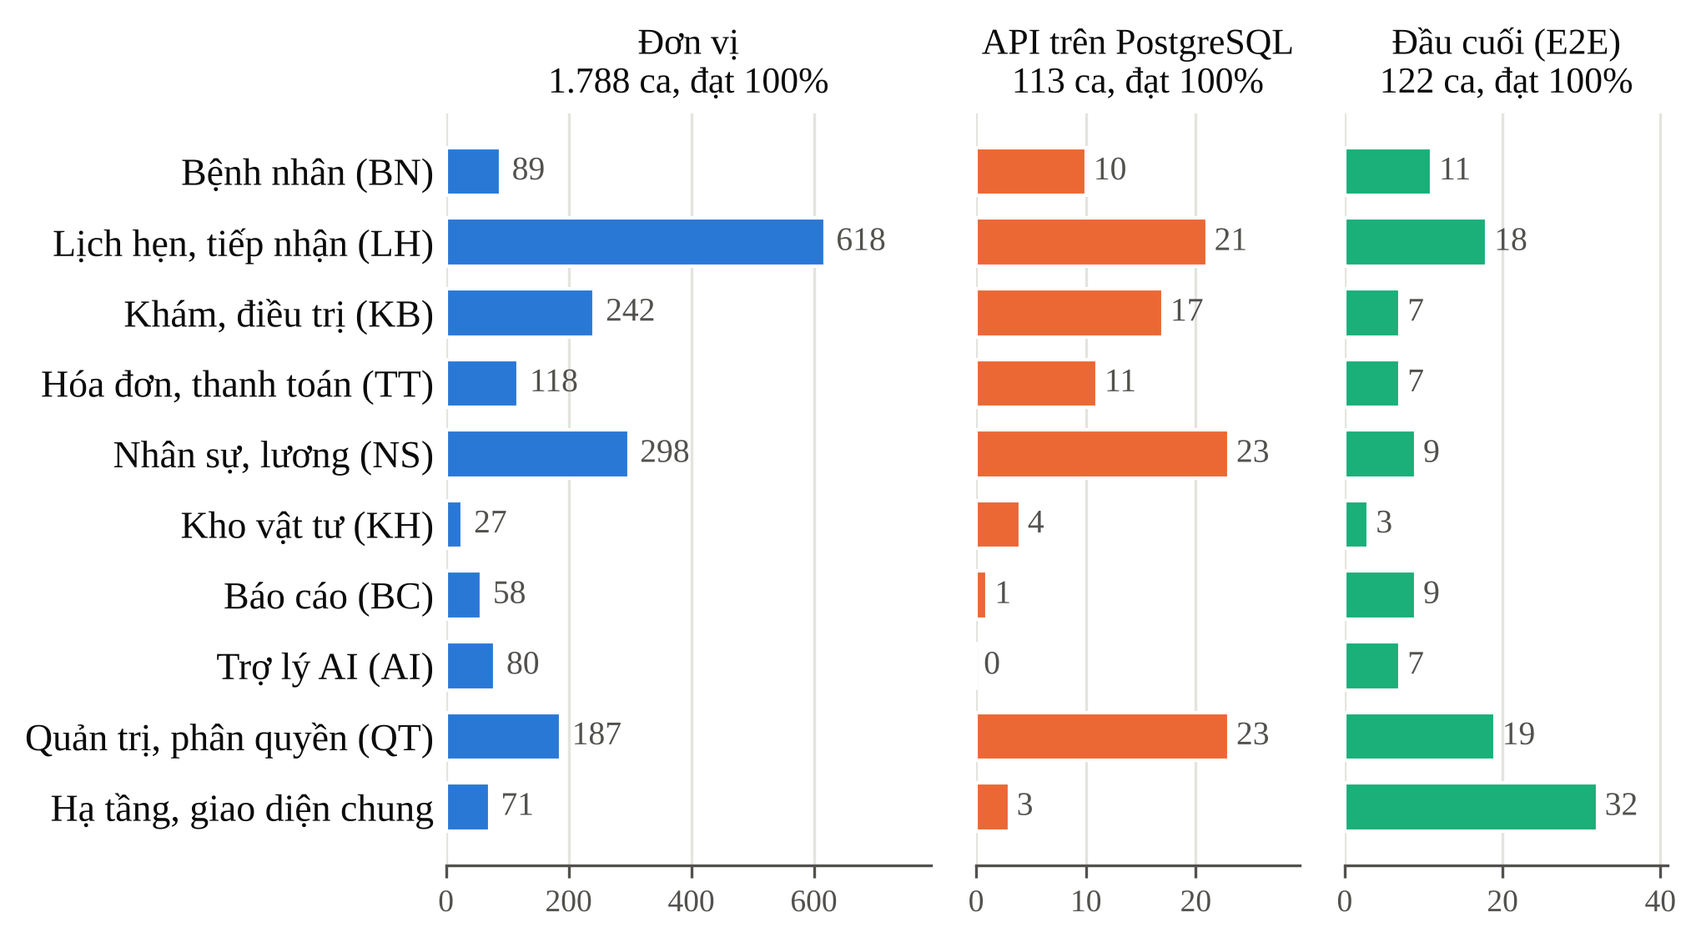
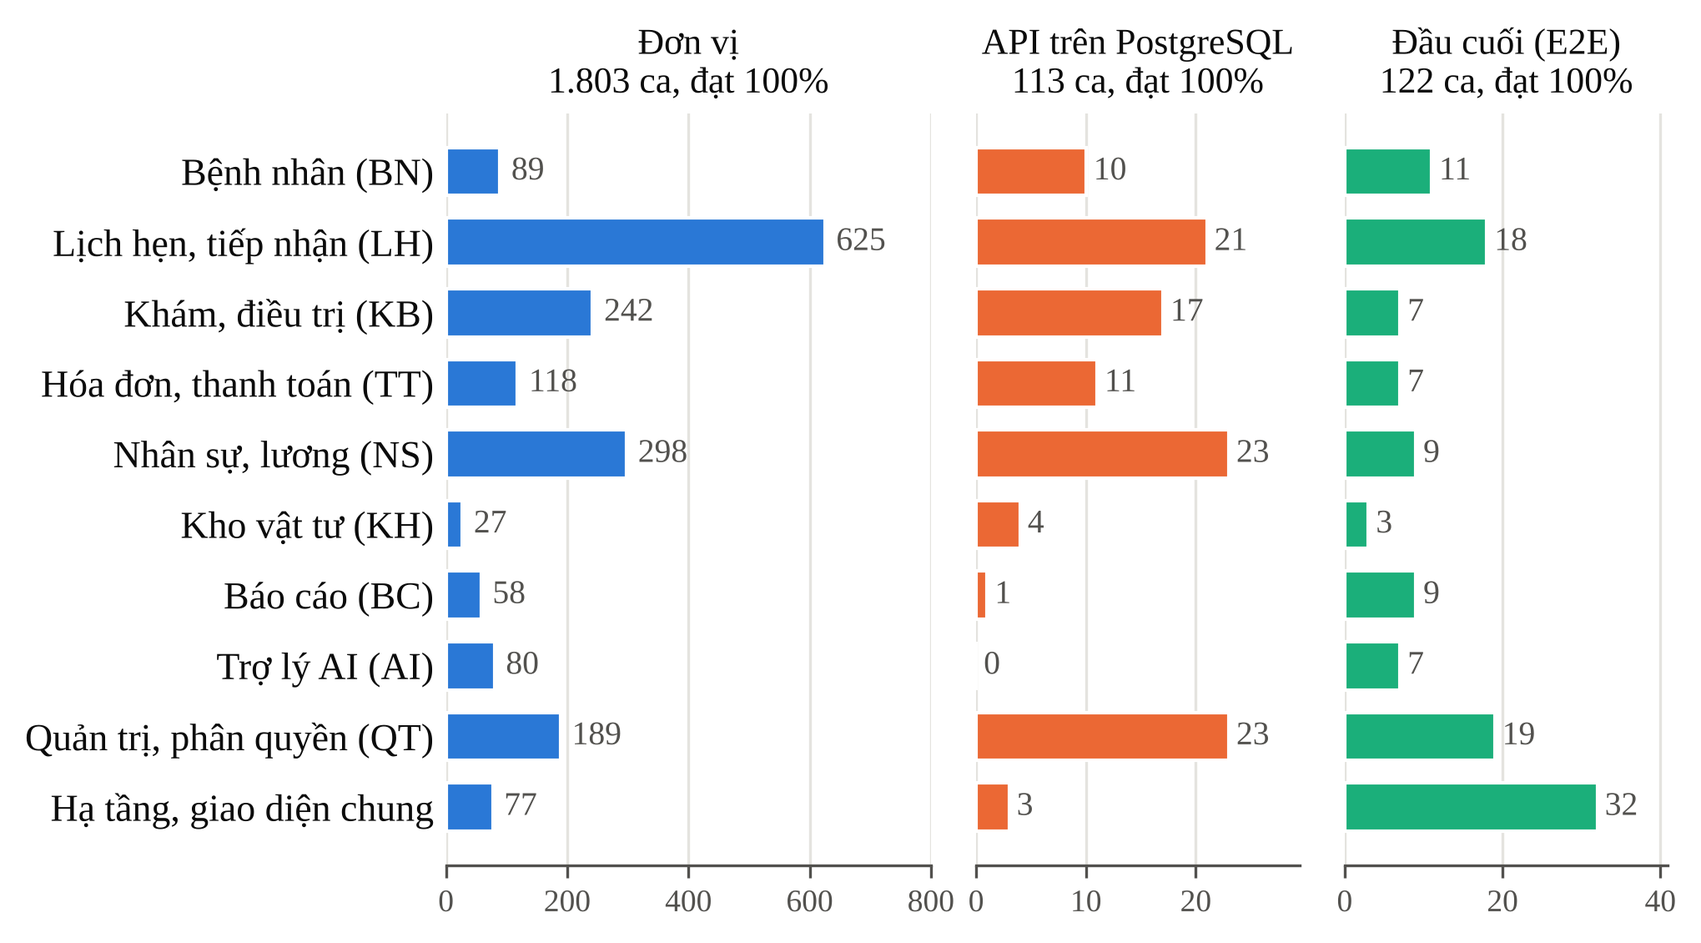
Báo cáo (dở): đặt lịch 4 bước, hồ sơ và đánh giá bác sĩ, kiểm tra khóa i18n, cập nhật số liệu
Claude-Session: https://claude.ai/code/session_01TBoubatqgAjjLj8yNYh2bv

diff --git a/docs/10_Thesis/bao-cao/ve-bieu-do.py b/docs/10_Thesis/bao-cao/ve-bieu-do.py
@@ -1,7 +1,7 @@
 """Vẽ biểu đồ thống kê kiểm thử cho Chương 5 (Hình 5.1, Hình 5.2).
 
 Số liệu lấy từ lần chạy thật:
-- kiểm thử đơn vị: `npx jest --json` trong backend (23/11/2026), nhóm theo module;
+- kiểm thử đơn vị: `npx jest --json` trong backend (27/11/2026), nhóm theo module;
 - kiểm thử API: backend/test-results/.../jest-results.json (17/11/2026);
 - E2E: `npx playwright test --list`, kết quả 122/122 đạt ở CI nhánh chính.
 Độ bao phủ: Bảng 5.7 (jest --coverage, 17/11/2026).
@@ -32,15 +32,15 @@ plt.rcParams.update({
 # (nhóm, đơn vị, API, E2E)
 NHOM = [
     ("Bệnh nhân (BN)", 89, 10, 11),
-    ("Lịch hẹn, tiếp nhận (LH)", 618, 21, 18),
+    ("Lịch hẹn, tiếp nhận (LH)", 625, 21, 18),
     ("Khám, điều trị (KB)", 242, 17, 7),
     ("Hóa đơn, thanh toán (TT)", 118, 11, 7),
     ("Nhân sự, lương (NS)", 298, 23, 9),
     ("Kho vật tư (KH)", 27, 4, 3),
     ("Báo cáo (BC)", 58, 1, 9),
     ("Trợ lý AI (AI)", 80, 0, 7),
-    ("Quản trị, phân quyền (QT)", 187, 23, 19),
-    ("Hạ tầng, giao diện chung", 71, 3, 32),
+    ("Quản trị, phân quyền (QT)", 189, 23, 19),
+    ("Hạ tầng, giao diện chung", 77, 3, 32),
 ]
 
 

diff --git a/docs/10_Thesis/bao-cao/14-chuong-4.md b/docs/10_Thesis/bao-cao/14-chuong-4.md
@@ -34,7 +34,7 @@ Bảng 4.2. Cấu trúc thư mục chính của mã nguồn
 |---|---|
 | `backend/src/<module>/` | Mỗi module nghiệp vụ: `*.controller.ts` (API), `*.service.ts` (quy tắc nghiệp vụ), `dto/` (kiểm tra dữ liệu vào), `domain/` (hàm thuần tính toán), `*.spec.ts` (kiểm thử) |
 | `backend/src/common/` | Guard xác thực, phân quyền, giới hạn theo dòng; tiện ích ngày giờ theo múi giờ phòng khám; sự kiện miền; dịch vụ email |
-| `backend/prisma/` | Lược đồ dữ liệu, 52 migration, dữ liệu khởi tạo và dữ liệu mẫu |
+| `backend/prisma/` | Lược đồ dữ liệu, 53 migration, dữ liệu khởi tạo và dữ liệu mẫu |
 | `backend/test/` | Kiểm thử API chạy trên PostgreSQL thật |
 | `frontend/src/features/<chức năng>/` | Trang và thành phần giao diện theo chức năng, kèm hook gọi API |
 | `frontend/src/components/ui/` | Thư viện thành phần dùng chung (nút, ô nhập, bảng, hộp thoại, thông báo…) |
@@ -98,7 +98,7 @@ idOf(ref: string): string | undefined {
 
 Mỗi trang được tải lười (`React.lazy`) nên trình duyệt chỉ tải mã của trang đang mở. Mọi lời gọi API đi qua TanStack Query với khóa truy vấn theo tài nguyên; sau mỗi thao tác ghi, các khóa liên quan được làm mới để mọi màn hình đồng bộ. Hóa đơn đang chờ thanh toán tự làm mới mỗi 8 giây để hiện ngay khoản chuyển khoản vừa về.
 
-Toàn bộ chữ giao diện nằm trong tệp ngôn ngữ tiếng Việt và tiếng Anh; bản tiếng Anh được tách thành gói riêng, chỉ tải khi cần. Sơ đồ răng được vẽ bằng SVG theo đường cong hình chữ U, mỗi răng là một nút dùng được bằng bàn phím; thay đổi tình trạng răng tự lưu sau 1,5 giây và có hoàn tác.
+Toàn bộ chữ giao diện nằm trong tệp ngôn ngữ tiếng Việt và tiếng Anh; bản tiếng Anh được tách thành gói riêng, chỉ tải khi cần. Để màn hình không bao giờ hiện mã khóa thô (như `uiScheduling.bookingActionConfirmed`), bước kiểm tra mã nguồn dùng trình biên dịch TypeScript dò mọi khóa được gọi, kể cả khóa ghép động từ hằng số, và báo lỗi nếu khóa thiếu ở một trong hai ngôn ngữ hoặc tham số chèn không khớp; khi chạy kiểm thử đầu cuối, khóa nào bị thiếu lúc hiển thị cũng làm kịch bản thất bại. Sơ đồ răng được vẽ bằng SVG theo đường cong hình chữ U, mỗi răng là một nút dùng được bằng bàn phím; thay đổi tình trạng răng tự lưu sau 1,5 giây và có hoàn tác.
 
 ## 4.5. Kết quả giao diện các chức năng
 
@@ -106,7 +106,7 @@ Mục này trình bày các màn hình tiêu biểu theo luồng nghiệp vụ c
 
 ### 4.5.1. Bệnh nhân đặt lịch trực tuyến
 
-Trang chủ (Hình 4.1) giới thiệu phòng khám, dịch vụ, bảng giá và đội ngũ bác sĩ; khách bấm vào một răng trên sơ đồ để xem dịch vụ liên quan. Ở trang đặt lịch (Hình 4.2), khách chọn dịch vụ, bác sĩ, ngày; hệ thống hiện các khung giờ còn trống, khách nhập họ tên, số điện thoại và nhận mã tra cứu yêu cầu.
+Trang chủ (Hình 4.1) giới thiệu phòng khám, dịch vụ, bảng giá và đội ngũ bác sĩ; khách bấm vào một răng trên sơ đồ để xem dịch vụ liên quan. Trang đặt lịch (Hình 4.2) đi qua bốn bước có thanh tiến trình: khách tìm hoặc lọc dịch vụ theo nhóm và thấy ngay giá tham khảo; sang bước bác sĩ, mỗi thẻ bác sĩ hiện số năm kinh nghiệm, chức vụ và điểm đánh giá, nút "Xem hồ sơ" mở quá trình đào tạo, công tác, giải thưởng cùng nhận xét của bệnh nhân đã khám; sau đó khách chọn ngày, giờ còn trống, nhập họ tên, số điện thoại và nhận mã tra cứu yêu cầu.
 
 ::: {custom-style="Ảnh"}
 ![](hinh/4-cong-trang-chu.png){width=15cm}
@@ -121,7 +121,7 @@ Hình 4.1. Trang chủ phòng khám
 :::
 
 ::: {custom-style="hình"}
-Hình 4.2. Trang đặt lịch trực tuyến
+Hình 4.2. Trang đặt lịch trực tuyến: chọn dịch vụ và xem hồ sơ bác sĩ
 :::
 
 ### 4.5.2. Lễ tân tiếp nhận và điều phối
@@ -208,7 +208,7 @@ Hoàn tiền là thao tác cần quyền riêng: hộp thoại cho biết số t
 
 ### 4.5.5. Bệnh nhân tra cứu lịch sử khám
 
-Lễ tân bấm "Gửi link tra cứu lịch sử" tại hồ sơ bệnh nhân, hoặc bệnh nhân tự xin đường dẫn bằng số điện thoại (Hình 4.10, trái). Mở đường dẫn trên điện thoại, bệnh nhân thấy lịch hẹn sắp tới, các lần khám kèm điều trị và số răng, đơn thuốc, kế hoạch điều trị và hóa đơn (Hình 4.10, phải).
+Lễ tân bấm "Gửi link tra cứu lịch sử" tại hồ sơ bệnh nhân, hoặc bệnh nhân tự xin đường dẫn bằng số điện thoại (Hình 4.10, trái). Mở đường dẫn trên điện thoại, bệnh nhân thấy lịch hẹn sắp tới, các lần khám kèm điều trị và số răng, đơn thuốc, kế hoạch điều trị và hóa đơn (Hình 4.10, phải). Dưới mỗi lần khám đã hoàn tất trong 90 ngày gần nhất có nút "Đánh giá" kèm tên bác sĩ: bệnh nhân chọn số sao, viết nhận xét nếu muốn; sau khi gửi, ô này chuyển thành đánh giá đã gửi và không sửa được nữa. Ở phía phòng khám, trang chi tiết bác sĩ có thẻ "Đánh giá của bệnh nhân" để quản lý xem và ẩn đánh giá kèm lý do.
 
 ::: {custom-style="Ảnh"}
 ![](hinh/4-cong-tra-cuu-lich-su.png){width=12cm}

diff --git a/docs/10_Thesis/bao-cao/12-chuong-2.md b/docs/10_Thesis/bao-cao/12-chuong-2.md
@@ -95,11 +95,12 @@ Bảng 2.4. Yêu cầu chức năng phân hệ lịch hẹn và tiếp nhận
 | LH-01 | Đặt lịch hẹn theo bác sĩ, dịch vụ, khung giờ; chỉ cho đặt trong giờ làm việc của bác sĩ, không trùng lịch bác sĩ và không trùng lịch bệnh nhân. |
 | LH-02 | Xem lịch theo ngày, tuần, theo bác sĩ; danh sách lịch hẹn có lọc. |
 | LH-03 | Dời lịch, hủy lịch có lý do; đánh dấu vắng mặt; hoàn tác trong ngày. |
-| LH-04 | Bệnh nhân đặt lịch trực tuyến: chọn dịch vụ, bác sĩ, giờ trống; lễ tân duyệt, đề xuất giờ khác hoặc từ chối. |
+| LH-04 | Bệnh nhân đặt lịch trực tuyến theo bốn bước: chọn dịch vụ (theo nhóm, có tìm kiếm và giá tham khảo), chọn bác sĩ (xem kinh nghiệm, chức vụ, quá trình đào tạo, công tác, giải thưởng và đánh giá), chọn giờ trống, nhập thông tin; lễ tân duyệt, đề xuất giờ khác hoặc từ chối. |
 | LH-05 | Tự gửi nhắc lịch trước giờ hẹn; bệnh nhân xác nhận, xin dời hoặc hủy qua liên kết riêng. |
 | LH-06 | Check-in khi khách đến, tiếp nhận khách vãng lai; hàng chờ theo thứ tự đến cho từng bác sĩ, ưu tiên cấp cứu, chuyển bác sĩ. |
 | LH-07 | Danh sách chờ: ghi nhận khách muốn khám sớm hơn, gợi ý khi có giờ trống. |
 | LH-08 | Nhắc tái khám định kỳ (ví dụ 6 tháng cạo vôi) và theo dõi kết quả gọi nhắc. |
+| LH-09 | Bệnh nhân đánh giá bác sĩ (1–5 sao, nhận xét) sau lượt khám đã hoàn tất; đánh giá hiện công khai ở trang đặt lịch, quản lý được ẩn kèm lý do. |
 
 ### 2.3.3. Khám và điều trị
 
@@ -220,7 +221,7 @@ Hình 2.5 trình bày các use case của quản trị viên: quản lý ngườ
 Hình 2.5. Biểu đồ use case của quản trị viên
 :::
 
-Bệnh nhân không có tài khoản trong hệ thống. Mọi chức năng dành cho bệnh nhân là chức năng công khai, được bảo vệ bằng mã tham chiếu hoặc đường dẫn chứa mã bí mật gửi riêng tới bệnh nhân (Hình 2.6): xem thông tin phòng khám và bảng giá, đặt lịch trực tuyến (luôn kèm bước chọn dịch vụ, bác sĩ và giờ trống), tra cứu trạng thái yêu cầu đặt lịch, xác nhận hoặc dời, hủy lịch qua liên kết trong tin nhắc, khai thông tin sức khỏe trước khi đến, yêu cầu đường dẫn tra cứu và xem lịch sử khám, kế hoạch điều trị, hóa đơn của mình. Đường dẫn tra cứu được gửi qua nhà cung cấp email hoặc SMS, nên tác nhân này cũng xuất hiện trên biểu đồ.
+Bệnh nhân không có tài khoản trong hệ thống. Mọi chức năng dành cho bệnh nhân là chức năng công khai, được bảo vệ bằng mã tham chiếu hoặc đường dẫn chứa mã bí mật gửi riêng tới bệnh nhân (Hình 2.6): xem thông tin phòng khám và bảng giá, đặt lịch trực tuyến (luôn kèm bước chọn dịch vụ, bác sĩ và giờ trống; khi chọn bác sĩ có thể xem hồ sơ chuyên môn), tra cứu trạng thái yêu cầu đặt lịch, xác nhận hoặc dời, hủy lịch qua liên kết trong tin nhắc, khai thông tin sức khỏe trước khi đến, yêu cầu đường dẫn tra cứu và xem lịch sử khám, kế hoạch điều trị, hóa đơn của mình, và đánh giá bác sĩ sau mỗi lượt khám đã hoàn tất. Đường dẫn tra cứu được gửi qua nhà cung cấp email hoặc SMS, nên tác nhân này cũng xuất hiện trên biểu đồ.
 
 ::: {custom-style="Ảnh"}
 ![](hinh/2-6-use-case-benh-nhan.png){width=8.5cm}
@@ -262,4 +263,4 @@ Bảng 2.9. Ma trận quyền tiêu biểu theo vai trò
 
 Chương 2 đã khảo sát quy trình làm việc hằng ngày của phòng khám, chỉ ra những khó khăn của cách quản lý bằng sổ sách, bảng tính và tin nhắn, đồng thời xác định bốn tác nhân người dùng cùng ba hệ thống bên ngoài.
 
-Từ khảo sát đó, chương đã phân tích 34 yêu cầu chức năng theo chín nhóm nghiệp vụ và các yêu cầu phi chức năng về bảo mật, quyền riêng tư, toàn vẹn dữ liệu, độ tin cậy, hiệu năng và khả dụng. Biểu đồ use case và ma trận phân quyền là cơ sở cho thiết kế ở Chương 3.
+Từ khảo sát đó, chương đã phân tích 35 yêu cầu chức năng theo chín nhóm nghiệp vụ và các yêu cầu phi chức năng về bảo mật, quyền riêng tư, toàn vẹn dữ liệu, độ tin cậy, hiệu năng và khả dụng. Biểu đồ use case và ma trận phân quyền là cơ sở cho thiết kế ở Chương 3.

diff --git a/docs/10_Thesis/bao-cao/01-dau.md b/docs/10_Thesis/bao-cao/01-dau.md
@@ -112,9 +112,9 @@ TÓM TẮT ĐỒ ÁN
 
 Đồ án xây dựng GenSmile, một ứng dụng web quản lý toàn bộ hoạt động của một phòng khám nha khoa nhiều bác sĩ: hồ sơ bệnh nhân, lịch hẹn và đặt lịch trực tuyến, tiếp nhận và hàng chờ, phiên khám với sơ đồ răng và lịch sử điều trị theo từng răng, kế hoạch điều trị và báo giá, hóa đơn và thanh toán (kể cả chuyển khoản VietQR được đối soát tự động), nhân sự, ca làm việc và tính lương, kho vật tư, nhắc lịch qua email và SMS, bảng điều khiển và báo cáo cho quản lý. Bệnh nhân có thể tự đặt lịch, xác nhận hoặc dời lịch và tra cứu lịch sử khám qua đường dẫn bảo mật mà không cần tài khoản. Điểm nổi bật của hệ thống là lịch sử điều trị theo từng răng, chống đặt trùng lịch ở mức cơ sở dữ liệu và đối soát chuyển khoản tự động.
 
-Hệ thống dùng kiến trúc ứng dụng một trang (React) gọi REST API (NestJS) trên cơ sở dữ liệu PostgreSQL, gồm 23 module nghiệp vụ, khoảng 340 điểm cuối API và 70 bảng dữ liệu. Phân quyền theo vai trò với 133 mã quyền, kết hợp giới hạn theo từng dòng dữ liệu (bác sĩ chỉ thấy bệnh nhân của mình) và nhật ký kiểm toán cho mọi thao tác nhạy cảm. Đồ án tích hợp mô hình ngôn ngữ lớn ở dạng có kiểm soát: AI chỉ soạn nháp và đề xuất, người dùng duyệt mới thực hiện, mô hình không nhìn thấy tên hay số điện thoại bệnh nhân.
+Hệ thống dùng kiến trúc ứng dụng một trang (React) gọi REST API (NestJS) trên cơ sở dữ liệu PostgreSQL, gồm 24 module nghiệp vụ, khoảng 340 điểm cuối API và 71 bảng dữ liệu. Phân quyền theo vai trò với 133 mã quyền, kết hợp giới hạn theo từng dòng dữ liệu (bác sĩ chỉ thấy bệnh nhân của mình) và nhật ký kiểm toán cho mọi thao tác nhạy cảm. Đồ án tích hợp mô hình ngôn ngữ lớn ở dạng có kiểm soát: AI chỉ soạn nháp và đề xuất, người dùng duyệt mới thực hiện, mô hình không nhìn thấy tên hay số điện thoại bệnh nhân.
 
-Chất lượng được bảo đảm bằng 1.788 kiểm thử đơn vị (bao phủ 76,6% số dòng mã service và controller), 113 kiểm thử API trên PostgreSQL thật và 122 kịch bản kiểm thử giao diện tự động, chạy trong 10 bước kiểm tra liên tục trước mỗi lần cập nhật. Hệ thống đã được triển khai bằng Docker trên máy chủ ảo và đáp ứng các mục tiêu trong phiếu giao đề tài, trừ phần lưu trữ phim X-quang được để lại làm hướng phát triển.
+Chất lượng được bảo đảm bằng 1.803 kiểm thử đơn vị (bao phủ 76,6% số dòng mã service và controller), 113 kiểm thử API trên PostgreSQL thật và 122 kịch bản kiểm thử giao diện tự động, chạy trong 10 bước kiểm tra liên tục trước mỗi lần cập nhật. Hệ thống đã được triển khai bằng Docker trên máy chủ ảo và đáp ứng các mục tiêu trong phiếu giao đề tài, trừ phần lưu trữ phim X-quang được để lại làm hướng phát triển.
 
 **Từ khóa:** quản lý phòng khám nha khoa, sơ đồ răng FDI, đặt lịch trực tuyến, VietQR, phân quyền theo vai trò, mô hình ngôn ngữ lớn, NestJS, React, PostgreSQL.
 

diff --git a/docs/10_Thesis/bao-cao/16-ket-luan.md b/docs/10_Thesis/bao-cao/16-ket-luan.md
@@ -4,11 +4,11 @@
 
 Đồ án đã xây dựng GenSmile, ứng dụng web quản lý phòng khám nha khoa nhiều bác sĩ, đáp ứng các mục tiêu chính của phiếu giao đề tài. Hệ thống bao phủ vòng hoạt động của phòng khám, từ đặt lịch trực tuyến, tiếp nhận, hàng chờ, khám và điều trị theo sơ đồ răng, kế hoạch điều trị, hóa đơn và thanh toán, đến nhắc lịch, nhân sự, lương, kho và báo cáo.
 
-Về phân tích và thiết kế, đồ án đã khảo sát quy trình vận hành tại Nha khoa An Việt, xác định bốn nhóm người dùng cùng 34 yêu cầu chức năng và các yêu cầu phi chức năng. Hệ thống được thiết kế theo kiến trúc ba lớp với 23 module nghiệp vụ, cơ sở dữ liệu 70 bảng và các biểu đồ UML mô tả những hành vi quan trọng.
+Về phân tích và thiết kế, đồ án đã khảo sát quy trình vận hành tại Nha khoa An Việt, xác định bốn nhóm người dùng cùng 35 yêu cầu chức năng và các yêu cầu phi chức năng. Hệ thống được thiết kế theo kiến trúc ba lớp với 24 module nghiệp vụ, cơ sở dữ liệu 71 bảng và các biểu đồ UML mô tả những hành vi quan trọng.
 
 Về kỹ thuật, hệ thống chống đặt trùng lịch bằng khóa tư vấn của cơ sở dữ liệu, ghi nhận thanh toán và webhook ngân hàng không ghi trùng, phân quyền hai lớp (theo vai trò với 133 mã quyền và theo dòng dữ liệu) kèm nhật ký kiểm toán. Thanh toán VietQR được đối soát tự động; trợ lý AI không nhận thông tin định danh bệnh nhân và vẫn hoạt động ở chế độ dự phòng khi dịch vụ AI lỗi.
 
-Về chất lượng, hệ thống có khoảng 2.000 kiểm thử tự động ở ba tầng (1.788 kiểm thử đơn vị, 113 kiểm thử API trên cơ sở dữ liệu thật, 122 kịch bản giao diện), chạy trong 10 bước kiểm tra trước mỗi lần cập nhật. Cả 34 yêu cầu chức năng đều có cách kiểm thử tương ứng (Phụ lục B), và hệ thống đã được đóng gói bằng Docker, triển khai trên máy chủ ảo.
+Về chất lượng, hệ thống có khoảng 2.000 kiểm thử tự động ở ba tầng (1.803 kiểm thử đơn vị, 113 kiểm thử API trên cơ sở dữ liệu thật, 122 kịch bản giao diện), chạy trong 10 bước kiểm tra trước mỗi lần cập nhật. Cả 35 yêu cầu chức năng đều có cách kiểm thử tương ứng (Phụ lục B), và hệ thống đã được đóng gói bằng Docker, triển khai trên máy chủ ảo.
 
 Điểm nổi bật nhất là các đặc thù của nha khoa và của thị trường Việt Nam được đưa vào phần mềm: lịch sử điều trị theo từng răng ngay trên sơ đồ hai cung răng, thanh toán VietQR tự đối soát, nhắc lịch tự động qua email và SMS, bệnh nhân tự tra cứu lịch sử khám không cần tài khoản. Đồng thời, hệ thống bảo đảm tính đúng đắn khi nhiều người thao tác cùng lúc và bảo vệ dữ liệu sức khỏe theo quy định hiện hành.
 

diff --git a/docs/10_Thesis/bao-cao/10-mo-dau.md b/docs/10_Thesis/bao-cao/10-mo-dau.md
@@ -76,7 +76,7 @@ Ngoài các phần Mở đầu, Kết luận, Tài liệu tham khảo và Phụ 
 
 - **Chương 1. Cơ sở lý thuyết và công nghệ:** nghiệp vụ phòng khám nha khoa, tổng quan các phần mềm hiện có, kiến trúc và công nghệ sử dụng, các vấn đề bảo mật, thanh toán và ứng dụng AI.
 - **Chương 2. Khảo sát hiện trạng và phân tích yêu cầu:** quy trình tại phòng khám, các tác nhân, yêu cầu chức năng và phi chức năng, biểu đồ use case.
-- **Chương 3. Phân tích và thiết kế hệ thống:** kiến trúc tổng thể và 23 module nghiệp vụ, thiết kế cơ sở dữ liệu, đặc tả các chức năng chính kèm biểu đồ tuần tự, hoạt động và trạng thái, thiết kế bảo mật và giao diện.
+- **Chương 3. Phân tích và thiết kế hệ thống:** kiến trúc tổng thể và 24 module nghiệp vụ, thiết kế cơ sở dữ liệu, đặc tả các chức năng chính kèm biểu đồ tuần tự, hoạt động và trạng thái, thiết kế bảo mật và giao diện.
 - **Chương 4. Xây dựng và triển khai hệ thống:** môi trường phát triển, tổ chức mã nguồn, các điểm cài đặt quan trọng kèm đoạn mã, giao diện các chức năng tiêu biểu chụp từ hệ thống chạy thật, quy trình tích hợp liên tục và triển khai.
 - **Chương 5. Kiểm thử và đánh giá:** chiến lược kiểm thử ba tầng, các ca kiểm thử tiêu biểu, số ca và độ bao phủ mã, hiệu năng, những điểm nổi bật, đối chiếu với mục tiêu đề tài và các hạn chế.
 

diff --git a/docs/10_Thesis/bao-cao/21-phu-luc.md b/docs/10_Thesis/bao-cao/21-phu-luc.md
@@ -63,6 +63,7 @@ Bảng B.1. Ma trận truy vết yêu cầu – thiết kế – giao diện –
 | LH-06 Check-in, hàng chờ | Hình 3.8 | Hình 4.3 | KT-LH-05, KT-LH-09 |
 | LH-07 Danh sách chờ | Mục 3.3.1 | – | E2E: waitlist |
 | LH-08 Nhắc tái khám | Mục 3.3.6 | – | Đơn vị (recalls) |
+| LH-09 Đánh giá bác sĩ | Hình 2.6, Mục 3.3.2 | Hình 4.2, Mục 4.5.5 | KT-LH-10; E2E: public-booking |
 | KB-01 Mở phiên khám | Hình 3.10 | – | KT-KB-01 |
 | KB-02 Ghi chú lâm sàng | Hình 3.10 | – | KT-KB-04, KT-KB-09 |
 | KB-03 Sơ đồ răng | Hình 3.10 | Hình 4.6, Hình 4.7 | E2E: dentist-view |
